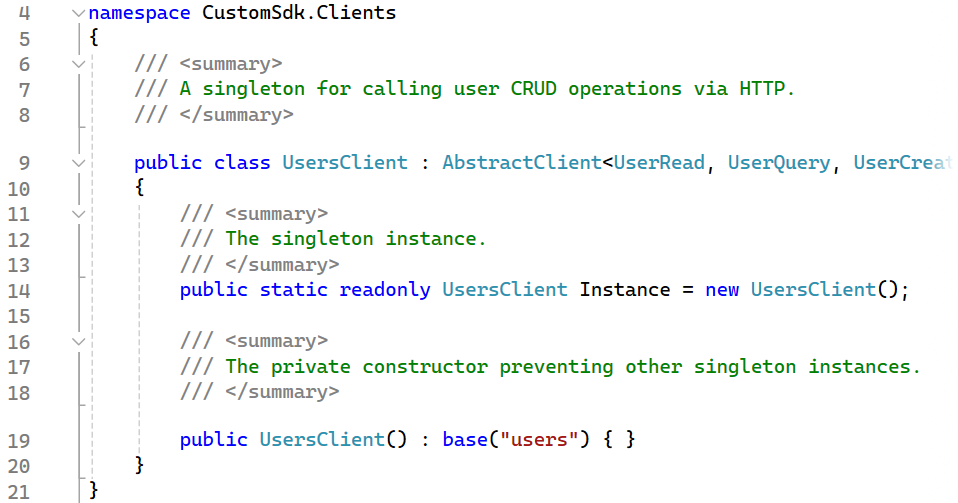
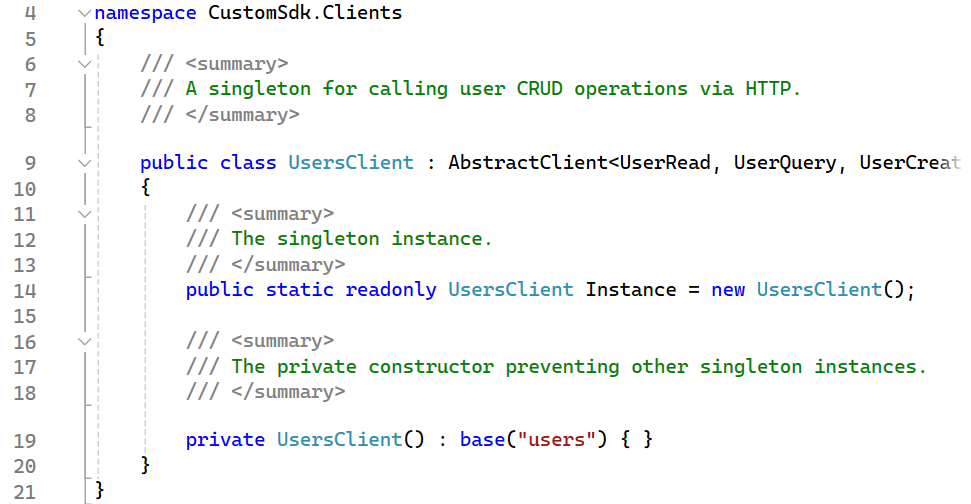
finish description of concrete clients and fix constructor visibility

diff --git a/Sources/CustomSdk/Clients/UsersClient.cs b/Sources/CustomSdk/Clients/UsersClient.cs
@@ -16,6 +16,6 @@ namespace CustomSdk.Clients
         /// <summary>
         /// The private constructor preventing other singleton instances.
         /// </summary>
-        public UsersClient() : base("users") { }
+        private UsersClient() : base("users") { }
     }
 }

diff --git a/Decks/MAUI_ASPNET_Sample_Introduction.md b/Decks/MAUI_ASPNET_Sample_Introduction.md
@@ -899,9 +899,13 @@ Consequently, the client **serializes** user `Create`, `Update`, and `Query` and
 
 ![bg right w:90%](../Screenshots/Clients/User.png)
 
-#### The path prefix
+#### The resource name string
 
-*Coming soon*
+Then, the `UsersClient` class needs to tell the `AbstractClient` constructor the **name of the requested resource**.
+
+The `AbstractClient` uses the passed resource name `"users"` (see *line 19*) to **build URLs** for HTTP requests.
+
+For the `UsersClient` class, the `AbstractClient` **derives** this URL: `http://localhost:5252/api/users`.
 
 ---
 
@@ -909,7 +913,11 @@ Consequently, the client **serializes** user `Create`, `Update`, and `Query` and
 
 #### The singleton instance
 
-*Coming soon*
+Finally, to **provide quick access** to client instances, we use the singleton design pattern here.
+
+The singleton design pattern requires the **constructors** of the class to be **private** only (see *line 19*).
+
+Furthermore, a single instance must be provided through a **static field or method** (see *line 14*).
 
 ---
 
